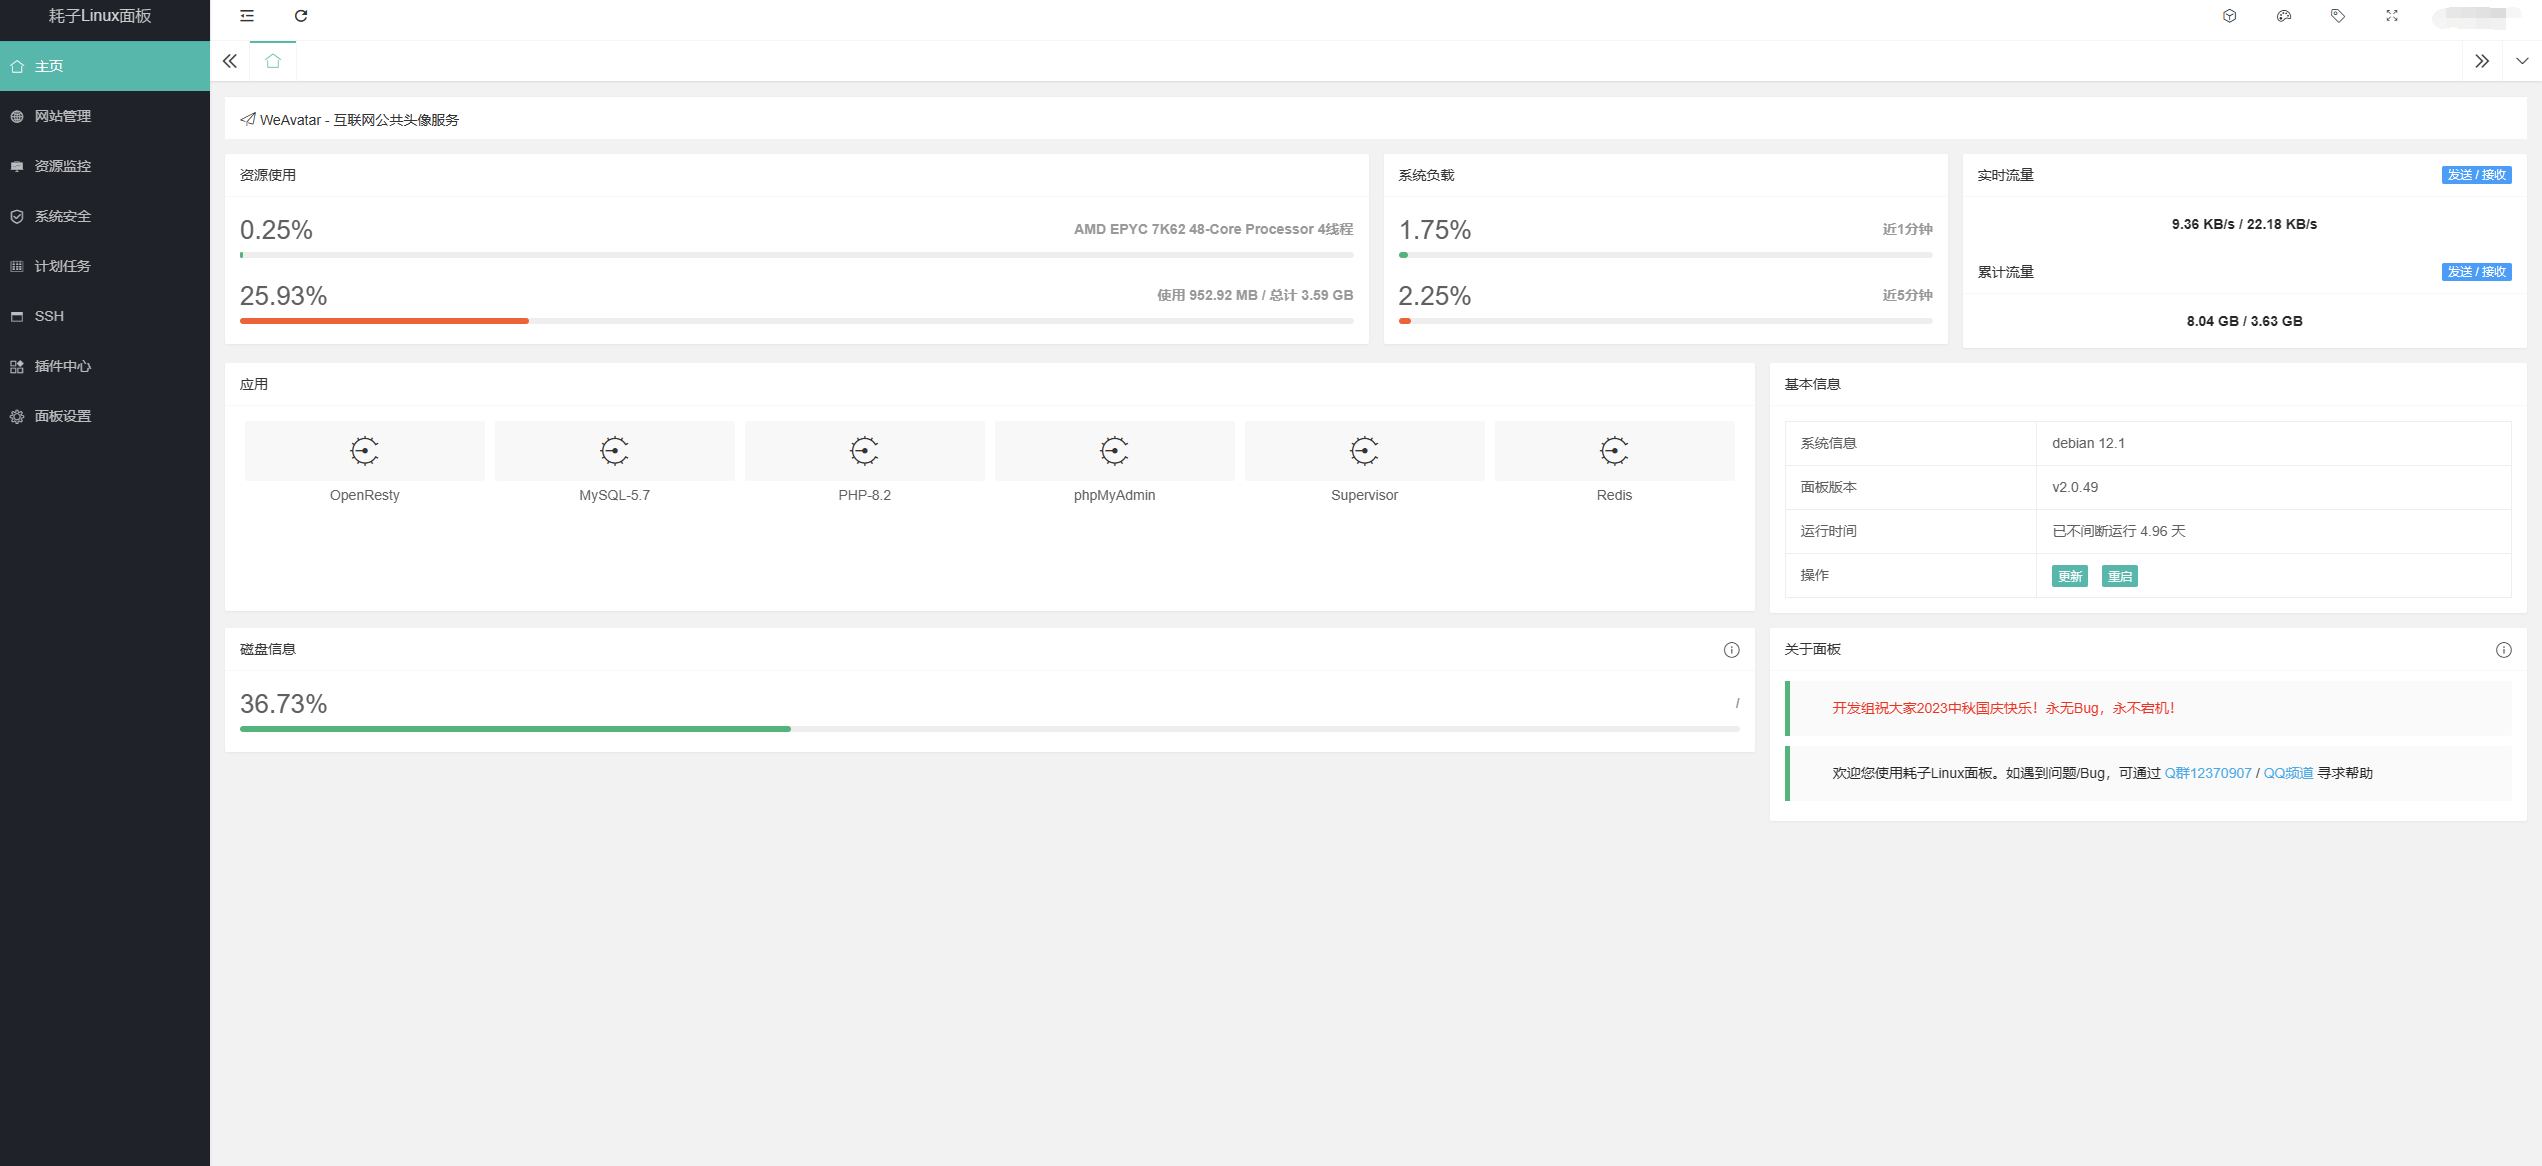
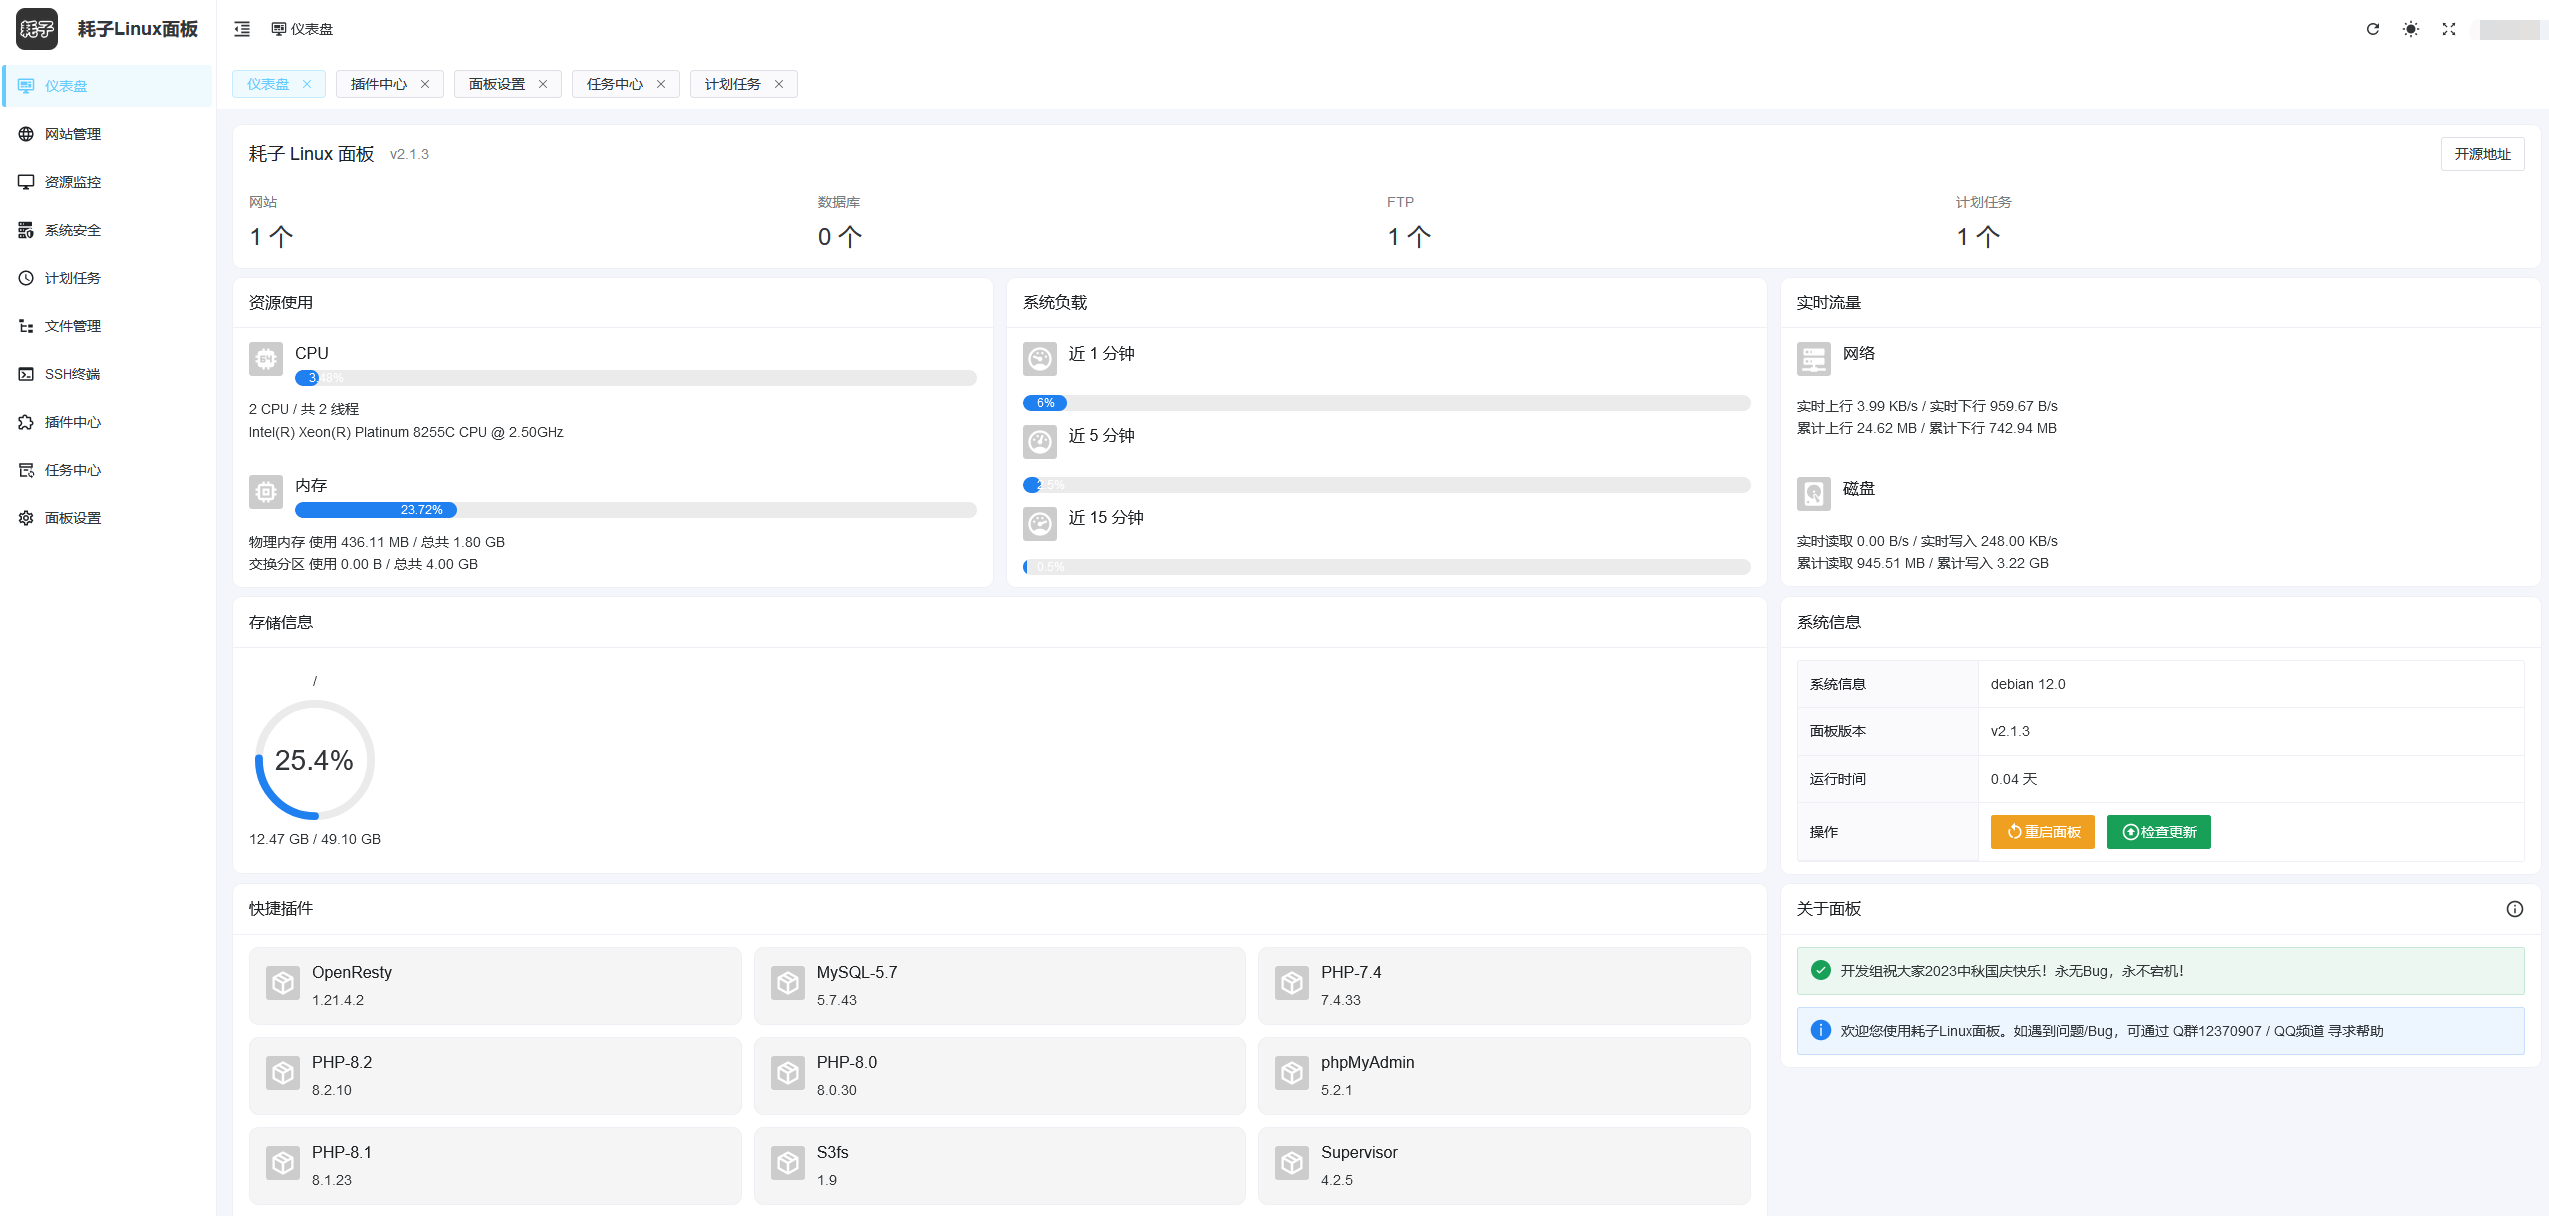
feat: 发布 v2.1.7

diff --git a/config/panel.go b/config/panel.go
@@ -8,6 +8,6 @@ func init() {
 	config := facades.Config()
 	config.Add("panel", map[string]any{
 		"name":    "耗子Linux面板",
-		"version": "v2.1.3",
+		"version": "v2.1.7",
 	})
 }

diff --git a/README.md b/README.md
@@ -18,13 +18,9 @@
 
 交流QQ群：[12370907](https://jq.qq.com/?_wv=1027&k=I1oJKSTH) | QQ频道：[pd.qq.com/s/fyol46wfy](https://pd.qq.com/s/fyol46wfy)
 
-## 重要说明
+## UI 截图
 
-目前我们正在重构面板前端部分开发 2.1 版本，v2.0.58 将是 2.0 的最后一个版本。
-
-新前端将使用 Vue + Naive UI 开发，预计 10 月底可以完成。
-
-存量用户请尽快更新至 v2.0.58，以便后续升级到 2.1 版本。
+![UI 截图](ui.png)
 
 ## 运行环境
 
